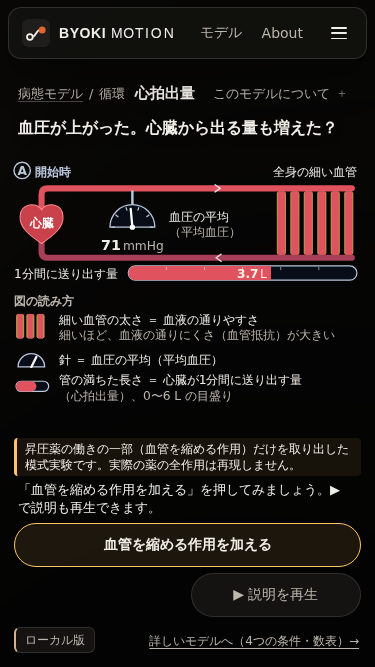
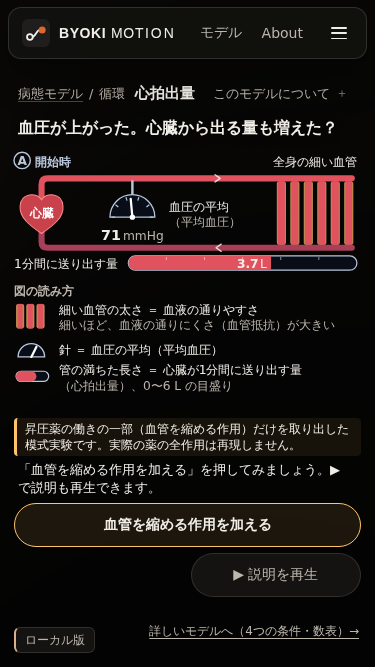
心拍出量・入門: viewport matrix の赤を直す（「詳しいモデルへ」が 21 px、教材を matrix に入れる）
main（#168）が「病態モデル」の surface を #/cardiac-output に足し、このブランチでは
そこが入門教材なので、マージ後の CI で教材が初めて verify:ui に測られた。

- 「詳しいモデルへ」のリンクを 24 px（電話で 44 px）に。21〜22 px で床を割っていた。
  375×667 の図は 347×253 のまま（lesson-drive で確認）
- matrix を分ける: scene-disease は詳しいモデル（?view=detail、main が測りたかった殻）、
  scene-lesson は教材（#/cardiac-output）
- 教材には「hide controls」が無いことを note に（図の上に何も立たず、注意書きは
  常に画面にある設計。layout: 'lesson' で判定）
- ローカルで 2 surface × 全 viewport が緑。F-244 を更新、L-168 を追加、写真を撮り直し

Claude-Session: https://claude.ai/code/session_01X7Nejy22FgCAtvvWGqpmtw

Changed region(s): [[0.0293, 0.2099, 0.968, 0.5997], [0.0293, 0.6297, 0.968, 0.8996], [0.3813, 0.9295, 0.9093, 0.9895]]

diff --git a/src/app/viewports.js b/src/app/viewports.js
@@ -103,8 +103,15 @@ export const SURFACES = [
   { id: 'scene-layers', route: '#/heart-anatomy', label: 'Scene (organ with layers)', needsRenderer: true },
   // A disease model — the product's centre since 2026-09-30: the model shell's
   // header (mark, name, Models · About), its title line, 「このモデルについて」,
-  // 「解剖を確認」 and the two console cards, at every width.
-  { id: 'scene-disease', route: '#/cardiac-output', label: 'Disease model', needsRenderer: true },
+  // 「解剖を確認」 and the two console cards, at every width. On cardiac-output
+  // that shell is the full model, one view in (`?view=detail`): the bare route
+  // opens the introductory lesson, measured on its own below.
+  { id: 'scene-disease', route: '#/cardiac-output?view=detail', label: 'Disease model', needsRenderer: true },
+  // The introductory lesson (`layout: 'lesson'`): a figure between a question
+  // and its buttons, with nothing over it — so no "hide controls" to measure
+  // (`scripts/check-viewports.mjs` says why in its note) — and everything
+  // else every scene owes, at every width.
+  { id: 'scene-lesson', route: '#/cardiac-output', label: 'Disease model, introductory lesson', needsRenderer: true },
 ];
 
 /**

diff --git a/src/app/performanceBudget.js b/src/app/performanceBudget.js
@@ -375,8 +375,8 @@ export const BUNDLE_BUDGET_KB = {
    * and its stylesheet, and the full model's fourth intervention. None of it is
    * in the entry beyond the router's `?view=` (0.6 kB): the lesson loads with
    * `#/cardiac-output`, and the full model's scene (28.4 kB with the rebrand's
-   * 「今、何が起きた？」) only with `?view=detail`. Measured 728.3 kB on top of
-   * main's rebrand (708.2): the lesson and the fourth intervention are 20.1 of
+   * 「今、何が起きた？」) only with `?view=detail`. Measured 728.4 kB on top of
+   * main's rebrand (708.2): the lesson and the fourth intervention are 20.2 of
    * it — 19.6 before the rebrand (696.5 → 716.1), and the rest the lesson's
    * rules for the rebrand's title line and 「このモデルについて」 sheet.
    */

diff --git a/src/styles/lesson-layout.css b/src/styles/lesson-layout.css
@@ -442,7 +442,14 @@
   min-height: 24px;
 }
 
+/* A target as well as a line of text: 24 px tall at every width (WCAG 2.5.8),
+   44 on a phone (below; here rather than in phone-touch-targets.css, whose
+   `#ui .x` this layout's own rule outranks). It was 21–22, and nothing measured
+   it until the viewport matrix reached the lesson (2026-10-01). */
 #ui[data-layout='lesson'] .lesson-detail {
+  display: inline-flex;
+  align-items: center;
+  min-height: 24px;
   font-size: 13px;
   color: var(--ink-dim);
   text-decoration: underline;
@@ -687,5 +694,6 @@
 
   #ui[data-layout='lesson'] .lesson-detail {
     font-size: 12px;
+    min-height: 44px;
   }
 }

diff --git a/docs/verification-lessons.md b/docs/verification-lessons.md
@@ -689,6 +689,29 @@ L-95 と L-96 は「別件を直したら、触っていない検査が赤くな
 - **一般形**: **壊して赤は、ガードの半分の証明でしかない。** 戻して緑になって初めて、
   その赤が「直したもの」から来ていたと言える。3 手目だけで台帳に書かない。
 
+### L-168 教材の「詳しいモデルへ」は 21 px だった——教材の検査は、名指しした 2 つのボタンしか測っていなかった
+
+- **症状**: 入門教材の右下のリンク「詳しいモデルへ（4つの条件・数表）→」は、高さ
+  21〜22 px でした。WCAG 2.5.8 の 24 px の床も、電話の 44 px も割っています。
+  `lesson-drive` は 3 幅で緑でした——タッチ目標を測るのは「血管を縮める作用を加える」と
+  「▶ 説明を再生」の**名指しした 2 つ**だけで、リンクは名前に入っていなかったからです。
+  全部の操作部品を測る `verify:ui` は、教材を一度も開いていませんでした（F-244）。
+- **どう見つかったか**: main（#168）のマージ後、PR の CI の viewport matrix が赤
+  （2026-10-01）。main が「病態モデル」の surface を `#/cardiac-output` に足していて、
+  このブランチではそのルートが教材なので、matrix が初めて教材を測りました。
+  同じ赤に「hide controls が無い」もあり、こちらは教材の設計どおり
+  （図の上に何も立たず、注意書きは常に画面にある）なので、検査の側で教材を名指しして
+  note にしました。
+- **いま何が捕まえるか**: `src/app/viewports.js` の `scene-lesson`（`#/cardiac-output`）を
+  `scripts/check-viewports.mjs` が全 viewport で測ります。詳しいモデルの殻は
+  `scene-disease`（`#/cardiac-output?view=detail`）で、main が測りたかったものを
+  そのまま測り続けます。赤は CI の実行（job 110233789081）が修正前のリンクで出したもの、
+  緑はリンクを 24 px（電話で 44 px、`src/styles/lesson-layout.css`）にしたローカルの
+  2 surface × 全 viewport（2026-10-01）。
+- **一般形**: **名指しの検査は、名指ししなかったものを通す。** 画面の全部の操作部品に
+  かかる義務（タッチ目標・tab 順・属性の言語）は、全部を数える道具に測らせる。
+  新しい画面の種類を作ったら、その日のうちにその道具の surface に入れる。
+
 ### L-123 カードを閉じた直後の左室を、固定の 1500 ms 待ちで測っていた
 
 - **症状**: 「カードを閉じた最初の画面」の左室の大きさを記録する検査を足したとき、
